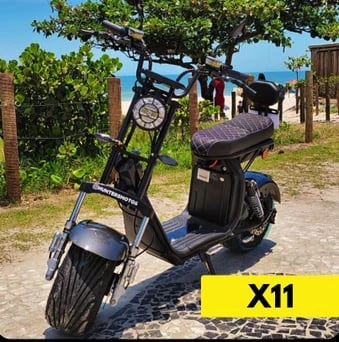
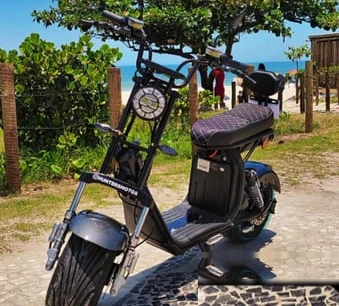
fix: corrige foto da X13 e remove selos das fotos de produto

diff --git a/assets/css/styles.css b/assets/css/styles.css
@@ -118,6 +118,7 @@ h3 { font-size: 1.25rem; font-weight: 800; margin-bottom: .6rem; }
 @keyframes heroChar { to { opacity: 1; transform: translateX(0); } }
 
 section { padding: 100px 0; }
+section[id], .group-head[id] { scroll-margin-top: 90px; }
 
 /* 02 A virada */
 .turn-section { background: var(--paper); }
@@ -139,8 +140,8 @@ section { padding: 100px 0; }
   background: var(--paper); border: 1px solid var(--line); border-radius: 24px; overflow: hidden; transition: .24s ease;
 }
 .product-card:hover { transform: translateY(-6px); box-shadow: var(--shadow); }
-.product-media { position: relative; aspect-ratio: 4 / 3; background: #1e1e1e; overflow: hidden; }
-.product-media img { width: 100%; height: 100%; object-fit: cover; object-position: center 35%; transition: transform .45s ease; }
+.product-media { position: relative; aspect-ratio: 5 / 4; background: #1e1e1e; overflow: hidden; }
+.product-media img { width: 100%; height: 100%; object-fit: cover; object-position: center 70%; transition: transform .45s ease; }
 .product-card:hover .product-media img { transform: scale(1.04); }
 .product-media.is-placeholder {
   display: grid; place-items: center; align-content: center; gap: .9rem;

diff --git a/index.html b/index.html
@@ -7,7 +7,7 @@
   <meta name="robots" content="noindex">
   <meta name="theme-color" content="#111111">
   <link rel="icon" href="assets/images/logo-hunters.png">
-  <link rel="stylesheet" href="assets/css/styles.css?v=1">
+  <link rel="stylesheet" href="assets/css/styles.css?v=2">
 </head>
 <body>
   <a class="skip-link" href="#conteudo">Pular para o conteúdo</a>
@@ -308,6 +308,6 @@
   </div></footer>
 
   <a class="floating-whatsapp" data-whatsapp data-message="Oi, Hunters! Estou procurando uma elétrica para a minha rotina e ainda não sei qual modelo escolher. Pode me ajudar?" aria-label="Falar no WhatsApp"></a>
-  <script src="assets/js/main.js?v=1"></script>
+  <script src="assets/js/main.js?v=2"></script>
 </body>
 </html>
